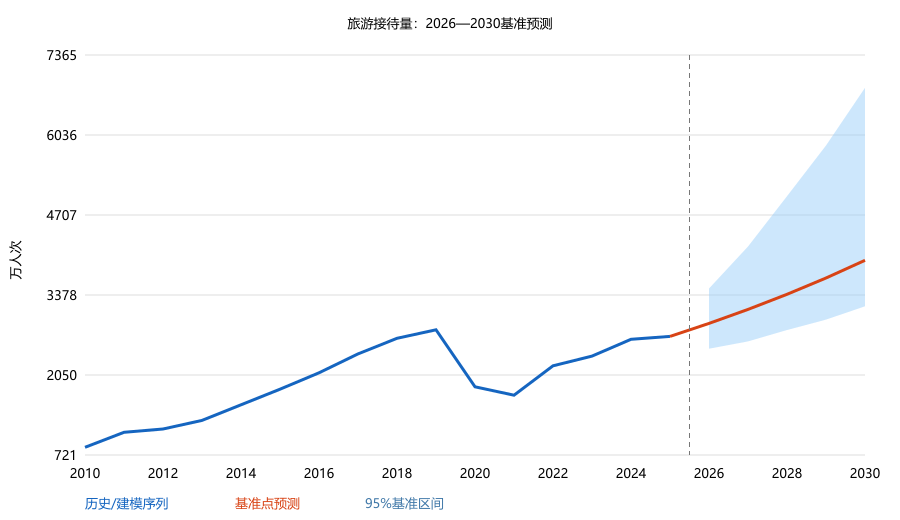
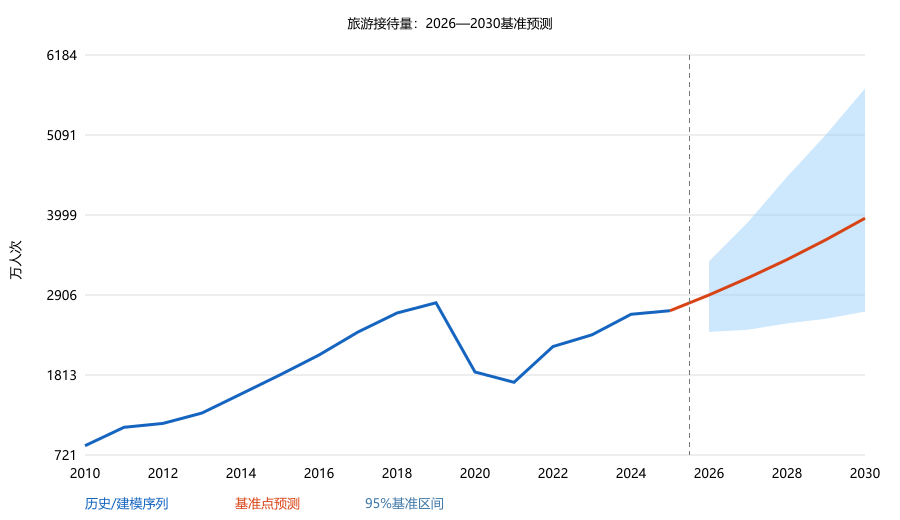
修正第二问Bootstrap残差中心化及预测区间

diff --git a/scripts/run_q2_revised.py b/scripts/run_q2_revised.py
@@ -45,11 +45,17 @@ def rolling_metrics(y, method, targets):
 def bootstrap(y, scenario, nsim=200000):
     m=drift_fit(y,2025); resid=m['resid'].copy(); yrs=m['years']
     if scenario=='baseline': resid=resid[yrs!=2020]
+    # Residual bootstrap requires zero-mean innovations. Removing the extreme
+    # 2020 residual changes the sample mean, so re-center the filtered pool.
+    mean_before=float(resid.mean())
+    resid=resid-mean_before
+    mean_after=float(resid.mean())
     rng=np.random.default_rng(20260818 if scenario=='baseline' else 20260819)
     shocks=rng.choice(resid,size=(nsim,5),replace=True); cs=np.cumsum(shocks,axis=1)
     h=np.arange(1,6); paths=np.exp(math.log(y[-1])+h*m['c']+cs)
     center=y[-1]*np.exp(h*m['c']); lo=np.quantile(paths,.025,axis=0); hi=np.quantile(paths,.975,axis=0)
-    return m,center,lo,hi
+    audit={'scenario':scenario,'removed_2020':scenario=='baseline','residual_count':len(resid),'residual_mean_before_centering':mean_before,'residual_mean_after_centering':mean_after}
+    return m,center,lo,hi,audit
 
 def covid_analysis(y):
     d=np.diff(np.log(y)); yrs=year[1:]; D=((yrs>=2020)&(yrs<=2022)).astype(float);X=np.column_stack([np.ones(len(d)),D]);b=np.linalg.lstsq(X,d,rcond=None)[0]
@@ -58,7 +64,7 @@ def covid_analysis(y):
         base*=math.exp(c); actual=y[year==yy][0];cf.append([yy,actual,base,1-actual/base])
     return c,beta,math.exp(beta)-1,cf
 
-forecasts=[]; validation=[]; sensitivity=[]; covid_rows=[]; summaries={}
+forecasts=[]; validation=[]; sensitivity=[]; covid_rows=[]; bootstrap_audit=[]; summaries={}
 for key,y in [('游客接待量_主插补',N_main),('旅游综合收入',I)]:
     train=drift_fit(y,2024); p25=y[year==2024][0]*math.exp(train['c']);ape=abs(y[-1]-p25)/y[-1]
     hm=holt_damped_fit(y,2024);hp25=holt_forecast(hm,1);hape=abs(y[-1]-hp25)/y[-1]
@@ -69,11 +75,12 @@ for key,y in [('游客接待量_主插补',N_main),('旅游综合收入',I)]:
     for rr in cf:covid_rows.append([key,bet,impact,*rr])
     summaries[key]={'holdout_prediction':p25,'holdout_actual':y[-1],'holdout_APE':ape,'drift_train_2010_2024':train['c'],'holt_2025':hp25,'holt_APE':hape,'covid_beta':bet,'covid_growth_effect':impact}
     for scen in ['baseline','stress']:
-        full,center,lo,hi=bootstrap(y,scen)
+        full,center,lo,hi,audit=bootstrap(y,scen)
+        bootstrap_audit.append([key,audit['scenario'],audit['removed_2020'],audit['residual_count'],audit['residual_mean_before_centering'],audit['residual_mean_after_centering']])
         for i,yy in enumerate(range(2026,2031)):forecasts.append([key,scen,yy,center[i],lo[i],hi[i],full['c'],full['g']])
 
 for label,y in [('主插补',N_main),('自然样条',N_spline)]:
-    full,center,lo,hi=bootstrap(y,'baseline')
+    full,center,lo,hi,audit=bootstrap(y,'baseline')
     for i,yy in enumerate(range(2026,2031)):sensitivity.append([label,yy,center[i],lo[i],hi[i],full['c'],full['g']])
 
 def write(name,header,data):
@@ -82,6 +89,7 @@ write('q2_model_validation.csv',['indicator','model','normal_RMSE','normal_MAPE_
 write('q2_forecast_2026_2030.csv',['indicator','scenario','year','point_forecast','PI95_low','PI95_high','log_drift','annual_growth'],forecasts)
 write('q2_arrivals_imputation_sensitivity.csv',['imputation','year','point_forecast','PI95_low','PI95_high','log_drift','annual_growth'],sensitivity)
 write('q2_covid_counterfactual.csv',['indicator','covid_beta_on_dlog','growth_effect','year','actual_or_model_value','no_covid_counterfactual','level_gap_ratio'],covid_rows)
+write('q2_bootstrap_residual_audit.csv',['indicator','scenario','removed_2020','residual_count','residual_mean_before_centering','residual_mean_after_centering'],bootstrap_audit)
 
 def svg_forecast(path,title,hist,rowsf,unit):
     W,H=900,520;L,R,T,B=85,35,55,65; fy=np.array([r[2] for r in rowsf]);point=np.array([r[3] for r in rowsf]);lo=np.array([r[4] for r in rowsf]);hi=np.array([r[5] for r in rowsf]);x=np.r_[year,fy];vv=np.r_[hist,lo,hi];mn=max(0,float(vv.min())*.85);mx=float(vv.max())*1.08;sx=lambda v:L+(v-2010)/20*(W-L-R);sy=lambda v:T+(mx-v)/(mx-mn)*(H-T-B)

diff --git a/outputs/q2_revised/第二问修订建模结果说明.md b/outputs/q2_revised/第二问修订建模结果说明.md
@@ -52,7 +52,13 @@ c_I=0.115252,\qquad g_I=e^{c_I}-1=12.22\%
 
 ## 5. 基准区间与压力区间
 
-基准区间在残差抽样时排除2020年极端疫情残差，用于描述没有新增重大冲击时的正常波动。
+基准区间在残差抽样时排除2020年极端疫情残差，并对剩余残差重新中心化：
+
+\[
+e_t^*=e_t-\bar e
+\]
+
+这保证Bootstrap随机扰动的均值重新为0，不会在模型漂移率之外额外叠加人为正增长；该区间用于描述没有新增重大冲击时的正常波动。
 
 压力区间保留2020年极端残差，用于表示可能重复出现重大外生冲击时的尾部风险。
 
@@ -60,8 +66,8 @@ c_I=0.115252,\qquad g_I=e^{c_I}-1=12.22\%
 
 | 指标 | 点预测 | 95%基准区间 | 95%压力区间 |
 |---|---:|---:|---:|
-| 游客量/万人次 | 3954.45 | [3190.74, 6819.32] | [1711.75, 6635.56] |
-| 旅游收入/亿元 | 355.87 | [269.99, 677.84] | [130.56, 652.74] |
+| 游客量/万人次 | 3954.45 | [2679.06, 5725.74] | [1711.75, 6635.56] |
+| 旅游收入/亿元 | 355.87 | [219.27, 550.51] | [130.56, 652.74] |
 
 区间明显非对称，反映年度小样本和历史极端冲击导致的非正态风险。
 
@@ -71,8 +77,8 @@ c_I=0.115252,\qquad g_I=e^{c_I}-1=12.22\%
 
 但中间插补会改变残差分布，从而影响Bootstrap区间。2030年游客量基准区间为：
 
-- 主插补：[3190.74, 6819.32]万人次；
-- 自然样条：[3436.57, 6519.54]万人次。
+- 主插补：[2679.06, 5725.74]万人次；
+- 自然样条：[2885.47, 5474.03]万人次。
 
 因此，点预测对插补方案稳健，但预测区间存在一定敏感性。
 
@@ -107,3 +113,4 @@ c_I=0.115252,\qquad g_I=e^{c_I}-1=12.22\%
 5. 论文必须同时报告点预测、基准区间和压力区间。
 6. Hurst分析只能作为探索性辅助证据，不用于直接决定增长率或ARIMA阶数。
 7. 2025旅游数据必须标注为官方媒体补充值，不能写成严格政府统计实测值。
+8. 基准情景剔除2020残差后必须重新中心化，并在“Bootstrap审计”表中报告中心化前后均值。
